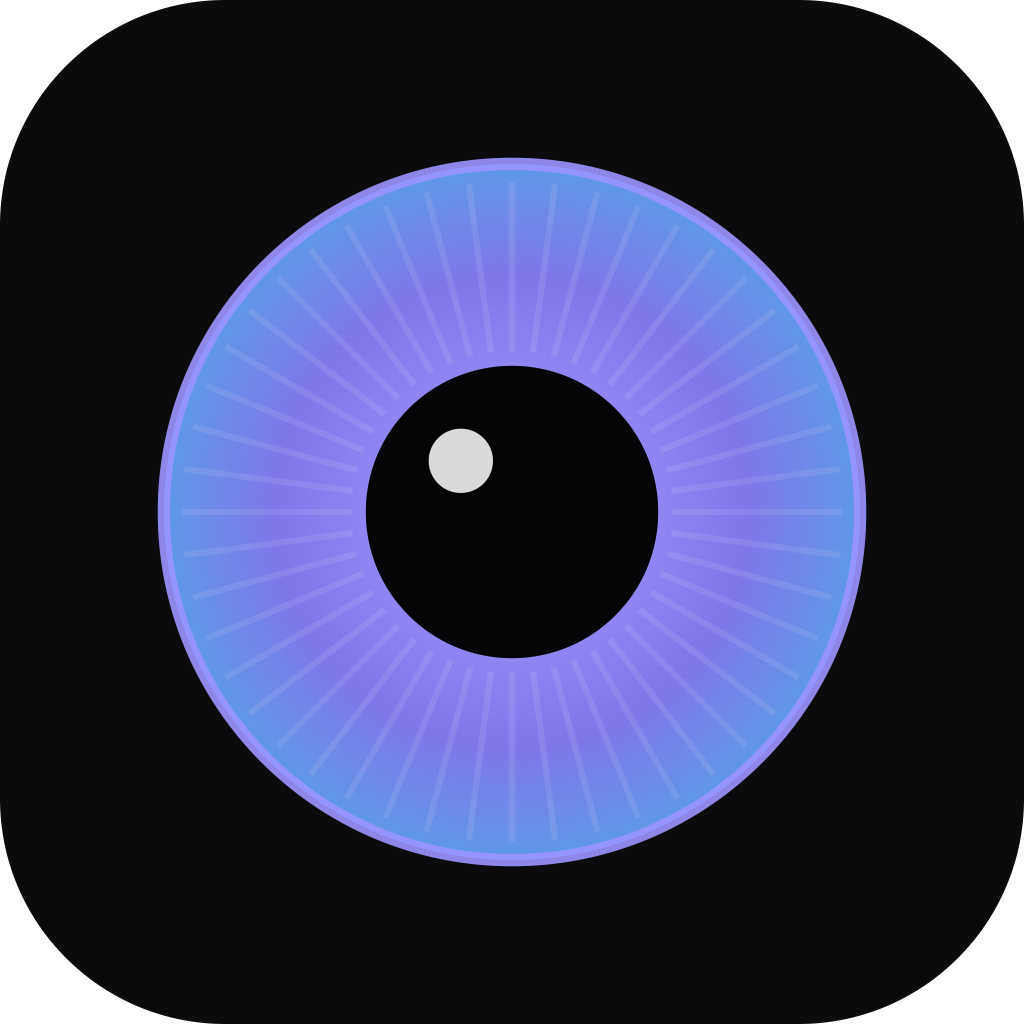
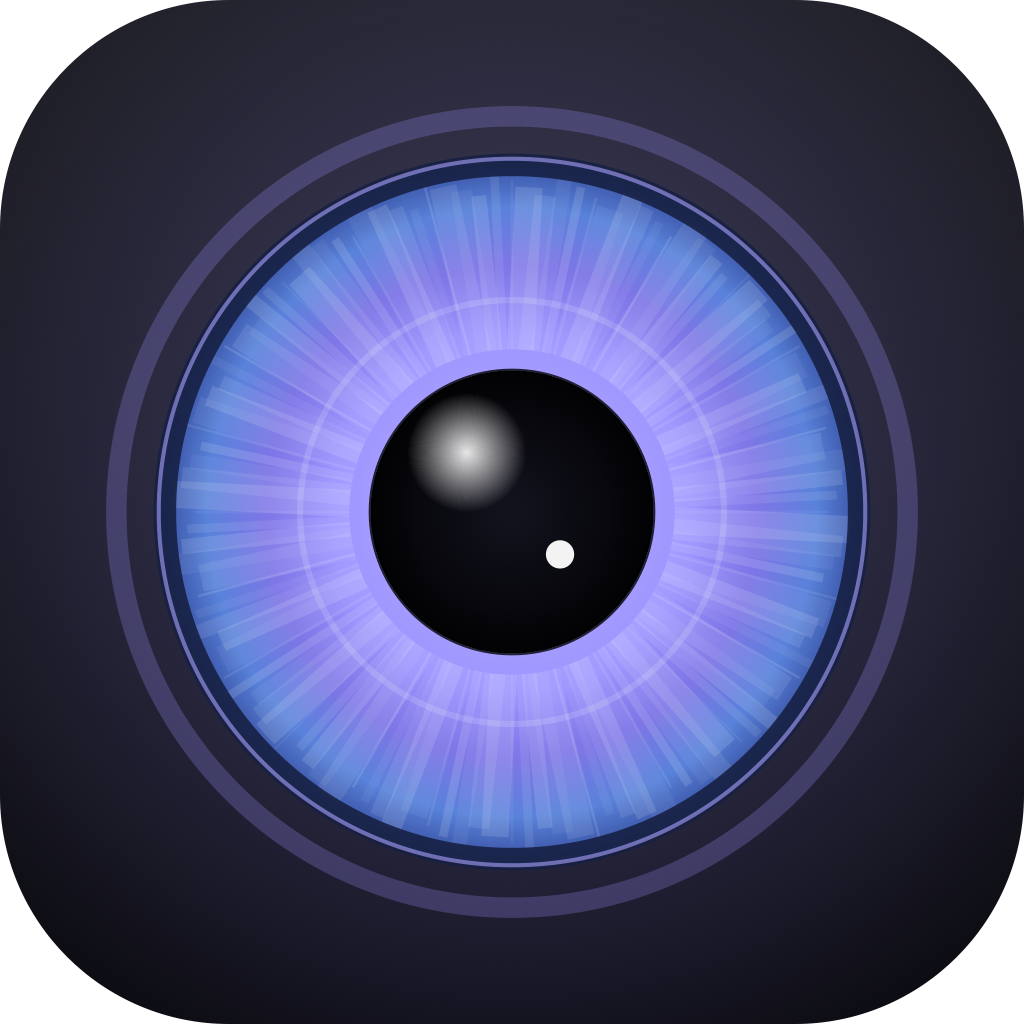
Atualiza icone: iris com profundidade, anel limbico e colarete
Redesenha IconMaker — fundo com gradiente e aura da marca, iris em
gradiente radial de 5 paradas, fibras variaveis, anel limbico escuro,
colarete, pupila com gradiente e reflexos especulares (suave + nitido).
Regenera icon.png e docs/icon.png.

diff --git a/Sources/IrisAnalyzer/Branding/IconMaker.swift b/Sources/IrisAnalyzer/Branding/IconMaker.swift
@@ -15,59 +15,119 @@ enum IconMaker {
         else { print("✗ contexto falhou"); return }
 
         let sz = CGFloat(S)
-        // Fundo arredondado escuro
-        ctx.setFillColor(CGColor(red: 0.043, green: 0.043, blue: 0.047, alpha: 1))
-        let bg = CGPath(roundedRect: CGRect(x: 0, y: 0, width: sz, height: sz),
-                        cornerWidth: sz * 0.22, cornerHeight: sz * 0.22, transform: nil)
-        ctx.addPath(bg); ctx.fillPath()
+        func rgb(_ r: Double, _ g: Double, _ b: Double, _ a: Double = 1) -> CGColor {
+            CGColor(red: r, green: g, blue: b, alpha: a)
+        }
 
         let center = CGPoint(x: sz/2, y: sz/2)
-        let irisR = sz * 0.34
+        let irisR = sz * 0.345
+        let pupilR = irisR * 0.40
 
-        // Disco da íris com gradiente radial índigo→azul
+        // ── Fundo arredondado com leve gradiente vertical (mais vivo que chapado)
         ctx.saveGState()
-        ctx.addArc(center: center, radius: irisR, startAngle: 0, endAngle: .pi*2, clockwise: false)
-        ctx.clip()
-        let colors = [
-            CGColor(red: 0.545, green: 0.486, blue: 1.0, alpha: 1),   // #8B7CFF
-            CGColor(red: 0.42, green: 0.36, blue: 0.88, alpha: 1),    // #6B5CE0
-            CGColor(red: 0.30, green: 0.52, blue: 0.88, alpha: 1),    // #4E86E0
-        ] as CFArray
-        if let grad = CGGradient(colorsSpace: cs, colors: colors, locations: [0, 0.6, 1]) {
-            ctx.drawRadialGradient(grad, startCenter: center, startRadius: irisR*0.2,
-                                   endCenter: center, endRadius: irisR, options: [])
+        let bg = CGPath(roundedRect: CGRect(x: 0, y: 0, width: sz, height: sz),
+                        cornerWidth: sz * 0.2237, cornerHeight: sz * 0.2237, transform: nil)
+        ctx.addPath(bg); ctx.clip()
+        if let bgGrad = CGGradient(colorsSpace: cs,
+            colors: [rgb(0.09, 0.09, 0.11), rgb(0.035, 0.035, 0.045)] as CFArray,
+            locations: [0, 1]) {
+            ctx.drawLinearGradient(bgGrad, start: CGPoint(x: 0, y: sz),
+                                   end: CGPoint(x: 0, y: 0), options: [])
+        }
+        // brilho da marca atrás da íris
+        if let glow = CGGradient(colorsSpace: cs,
+            colors: [rgb(0.545, 0.486, 1.0, 0.35), rgb(0.545, 0.486, 1.0, 0)] as CFArray,
+            locations: [0, 1]) {
+            ctx.drawRadialGradient(glow, startCenter: center, startRadius: 0,
+                                   endCenter: center, endRadius: irisR * 1.9, options: [])
         }
         ctx.restoreGState()
 
-        // Fibras radiais da íris (linhas sutis)
-        ctx.setStrokeColor(CGColor(red: 1, green: 1, blue: 1, alpha: 0.10))
-        ctx.setLineWidth(sz * 0.006)
-        let pupilR = irisR * 0.42
-        for k in 0..<48 {
-            let ang = CGFloat(k) * .pi / 24
-            let x0 = center.x + cos(ang) * pupilR * 1.1
-            let y0 = center.y + sin(ang) * pupilR * 1.1
-            let x1 = center.x + cos(ang) * irisR * 0.95
-            let y1 = center.y + sin(ang) * irisR * 0.95
-            ctx.move(to: CGPoint(x: x0, y: y0)); ctx.addLine(to: CGPoint(x: x1, y: y1))
-        }
+        // ── Anel de brilho externo (aura da marca)
+        ctx.setStrokeColor(rgb(0.545, 0.486, 1.0, 0.25))
+        ctx.setLineWidth(sz * 0.02)
+        ctx.addArc(center: center, radius: irisR * 1.12, startAngle: 0, endAngle: .pi*2, clockwise: false)
         ctx.strokePath()
 
-        // Anel externo (limbo)
-        ctx.setStrokeColor(CGColor(red: 0.545, green: 0.486, blue: 1.0, alpha: 0.9))
-        ctx.setLineWidth(sz * 0.012)
+        // ── Disco da íris: gradiente radial em camadas (centro claro → azul profundo)
+        ctx.saveGState()
+        ctx.addArc(center: center, radius: irisR, startAngle: 0, endAngle: .pi*2, clockwise: false)
+        ctx.clip()
+        let irisColors = [
+            rgb(0.62, 0.56, 1.0),    // centro claro
+            rgb(0.545, 0.486, 1.0),  // #8B7CFF
+            rgb(0.42, 0.36, 0.88),   // #6B5CE0
+            rgb(0.28, 0.42, 0.82),   // azul
+            rgb(0.16, 0.22, 0.55),   // azul profundo (borda)
+        ] as CFArray
+        if let grad = CGGradient(colorsSpace: cs, colors: irisColors,
+                                 locations: [0, 0.35, 0.6, 0.82, 1]) {
+            ctx.drawRadialGradient(grad, startCenter: center, startRadius: pupilR * 0.6,
+                                   endCenter: center, endRadius: irisR, options: [])
+        }
+
+        // fibras radiais finas com opacidade variável (textura da íris)
+        for k in 0..<120 {
+            let ang = CGFloat(k) * (.pi * 2 / 120)
+            let jitter = CGFloat((k % 5)) * 0.006
+            let alpha = 0.05 + Double(k % 3) * 0.035
+            ctx.setStrokeColor(rgb(1, 1, 1, alpha))
+            ctx.setLineWidth(sz * (0.0025 + jitter))
+            let r0 = pupilR * 1.15
+            let r1 = irisR * (0.9 + CGFloat(k % 4) * 0.02)
+            ctx.move(to: CGPoint(x: center.x + cos(ang) * r0, y: center.y + sin(ang) * r0))
+            ctx.addLine(to: CGPoint(x: center.x + cos(ang) * r1, y: center.y + sin(ang) * r1))
+            ctx.strokePath()
+        }
+
+        // colarete (anel autonômico) + sombreamento interno junto à pupila
+        ctx.setStrokeColor(rgb(1, 1, 1, 0.14))
+        ctx.setLineWidth(sz * 0.006)
+        ctx.addArc(center: center, radius: pupilR * 1.5, startAngle: 0, endAngle: .pi*2, clockwise: false)
+        ctx.strokePath()
+        ctx.restoreGState()
+
+        // ── Anel límbico escuro na borda da íris (profundidade)
+        ctx.setStrokeColor(rgb(0.07, 0.09, 0.2, 0.9))
+        ctx.setLineWidth(sz * 0.022)
+        ctx.addArc(center: center, radius: irisR - sz * 0.006, startAngle: 0, endAngle: .pi*2, clockwise: false)
+        ctx.strokePath()
+        // realce fino índigo por cima do limbo
+        ctx.setStrokeColor(rgb(0.6, 0.55, 1.0, 0.6))
+        ctx.setLineWidth(sz * 0.004)
         ctx.addArc(center: center, radius: irisR, startAngle: 0, endAngle: .pi*2, clockwise: false)
         ctx.strokePath()
 
-        // Pupila escura
-        ctx.setFillColor(CGColor(red: 0.02, green: 0.02, blue: 0.03, alpha: 1))
+        // ── Pupila com leve gradiente radial (não chapada)
+        ctx.saveGState()
         ctx.addArc(center: center, radius: pupilR, startAngle: 0, endAngle: .pi*2, clockwise: false)
-        ctx.fillPath()
+        ctx.clip()
+        if let pgrad = CGGradient(colorsSpace: cs,
+            colors: [rgb(0.06, 0.06, 0.09), rgb(0.01, 0.01, 0.02)] as CFArray, locations: [0, 1]) {
+            ctx.drawRadialGradient(pgrad, startCenter: center, startRadius: 0,
+                                   endCenter: center, endRadius: pupilR, options: [])
+        }
+        ctx.restoreGState()
+        // aro sutil da pupila
+        ctx.setStrokeColor(rgb(0, 0, 0, 0.8))
+        ctx.setLineWidth(sz * 0.004)
+        ctx.addArc(center: center, radius: pupilR, startAngle: 0, endAngle: .pi*2, clockwise: false)
+        ctx.strokePath()
 
-        // Reflexo especular
-        ctx.setFillColor(CGColor(red: 1, green: 1, blue: 1, alpha: 0.85))
-        ctx.addArc(center: CGPoint(x: center.x - pupilR*0.35, y: center.y + pupilR*0.35),
-                   radius: pupilR*0.22, startAngle: 0, endAngle: .pi*2, clockwise: false)
+        // ── Reflexos especulares: um grande suave + um pequeno nítido
+        let hi = CGPoint(x: center.x - pupilR*0.32, y: center.y + pupilR*0.42)
+        ctx.saveGState()
+        ctx.addArc(center: hi, radius: pupilR*0.42, startAngle: 0, endAngle: .pi*2, clockwise: false)
+        ctx.clip()
+        if let hgrad = CGGradient(colorsSpace: cs,
+            colors: [rgb(1, 1, 1, 0.9), rgb(1, 1, 1, 0)] as CFArray, locations: [0, 1]) {
+            ctx.drawRadialGradient(hgrad, startCenter: hi, startRadius: 0,
+                                   endCenter: hi, endRadius: pupilR*0.42, options: [])
+        }
+        ctx.restoreGState()
+        ctx.setFillColor(rgb(1, 1, 1, 0.95))
+        ctx.addArc(center: CGPoint(x: center.x + pupilR*0.34, y: center.y - pupilR*0.3),
+                   radius: pupilR*0.1, startAngle: 0, endAngle: .pi*2, clockwise: false)
         ctx.fillPath()
 
         guard let img = ctx.makeImage() else { print("✗ imagem falhou"); return }